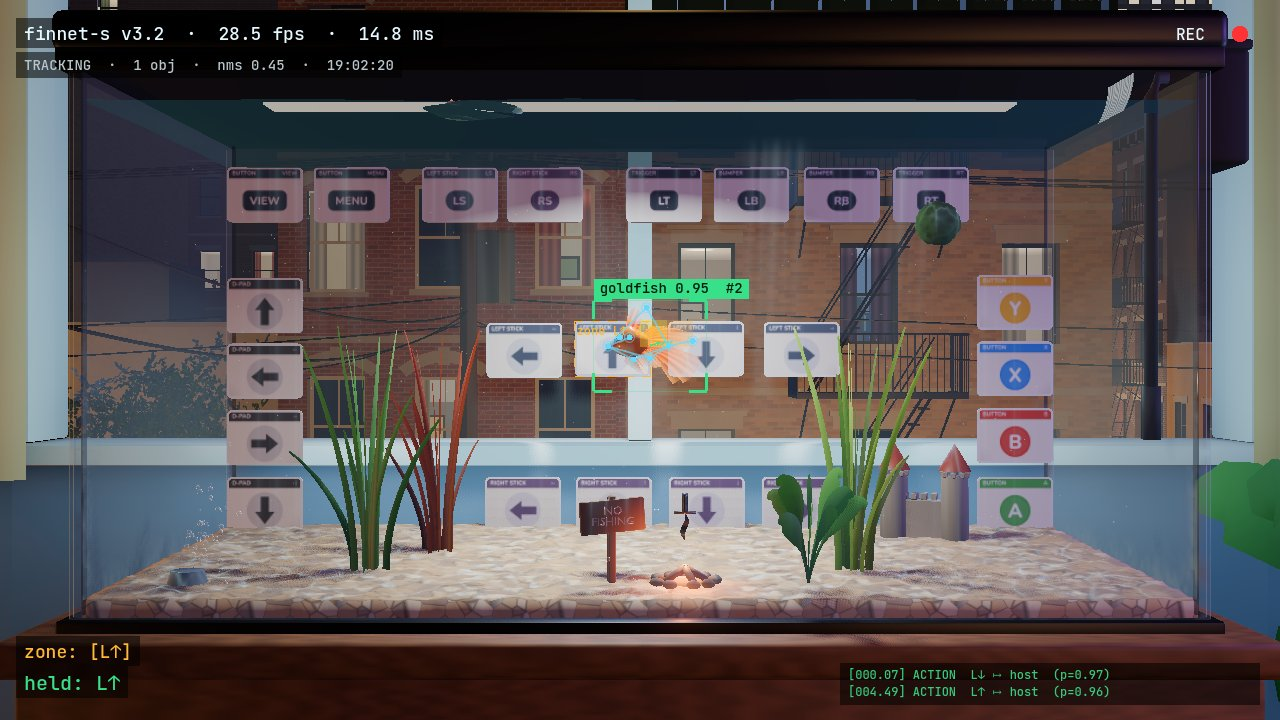
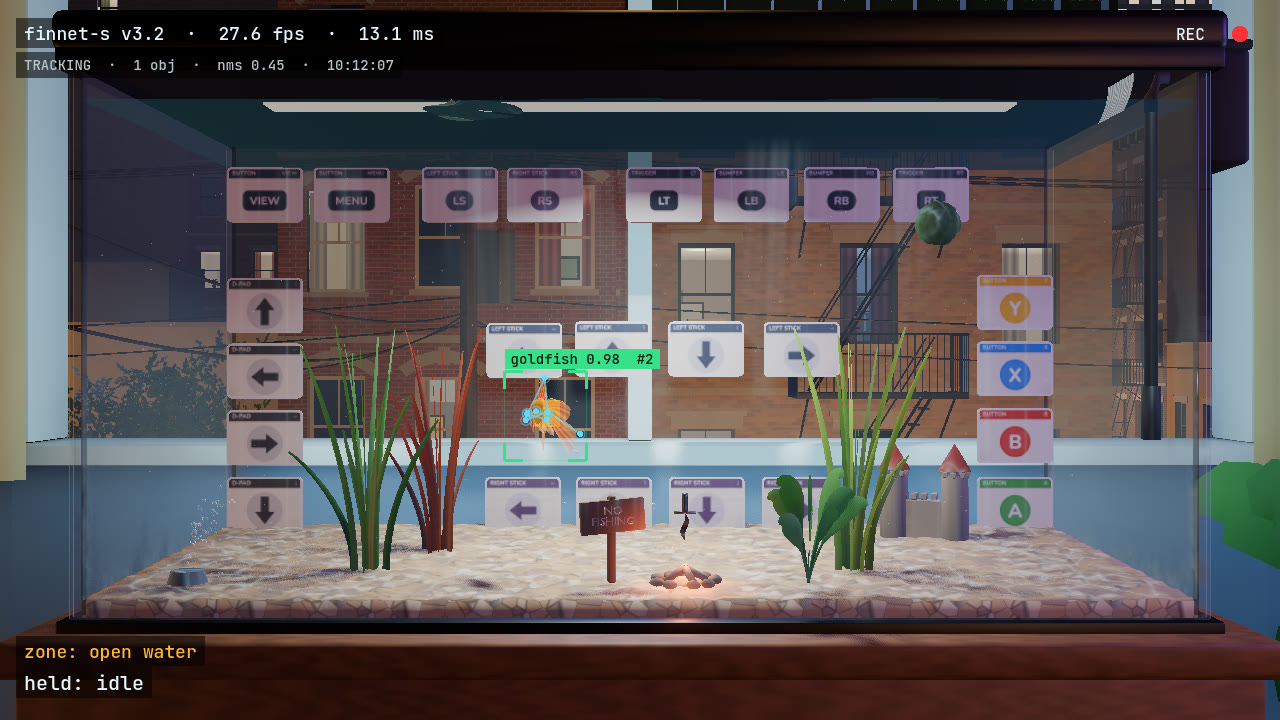
Milestone 5b: new screenshots, with Final Fantasy VII on the monitor
- --connect=HOST[;APP] streams from a paired host before the other
  options apply, resuming the game already running there (or starting
  APP), and waits for the first frame; closing leaves the game running.
  MonitorMenu.play_on drives the menu's usual connect, apps and launch.
- The README and landing page shots are retaken with the new fish and
  a game on the monitor: the bedroom from along the bed, so the chair no
  longer hides the screen; your view looking past the fish at the desk;
  the tank cam with the fish in open water, pressing nothing.

diff --git a/site/template.html b/site/template.html
@@ -16,18 +16,18 @@
       <p class="slogan">Fish can do anything.</p>
     </header>
 
-    <img class="wide" src="assets/bedroom.jpg" width="1280" height="720" alt="A bedroom at night. A fish tank full of controller flash cards sits under the window, with a lamplit street and brick rowhouses outside, and a desk with a gaming PC and monitor is across the room.">
+    <img class="wide" src="assets/bedroom.jpg" width="1280" height="720" alt="A bedroom at night. A fish tank full of controller flash cards sits under the window, with brick rowhouses outside, and at the desk on the right the monitor shows Final Fantasy VII streaming from the host.">
 
     <p>Linguini lets you play your PC games as a goldfish. Swimming in front of a flash card in your tank presses that button in the game, which plays on a monitor across the room. Any game your PC can stream over <a href="https://moonlight-stream.org/">Moonlight</a> works, from either <a href="https://github.com/LizardByte/Sunshine">Sunshine</a> or GeForce Experience, though you will need to install Linguini on a separate machine from your game host.</p>
     <p>Inspired by Tortellini, the fish who conquered Elden Ring.</p>
 
     <figure>
-      <img src="assets/your-view.jpg" width="1280" height="720" loading="lazy" alt="Behind the goldfish in the tank, with flash cards on the glass ahead and the street outside the window beyond.">
+      <img src="assets/your-view.jpg" width="1280" height="720" loading="lazy" alt="Behind the goldfish in the tank, looking out through the glass at the desk, where the monitor shows Final Fantasy VII.">
       <figcaption>Your view while you play.</figcaption>
     </figure>
 
     <figure>
-      <img src="assets/tank-cam.jpg" width="1280" height="720" loading="lazy" alt="The front of the tank with a tracking box labelled &quot;goldfish 0.96&quot; around the fish and readouts in the corners.">
+      <img src="assets/tank-cam.jpg" width="1280" height="720" loading="lazy" alt="The front of the tank with a tracking box labelled &quot;goldfish 0.98&quot; around the fish and readouts in the corners.">
       <figcaption>The tank cam opens as its own window, so you can add it to your stream in OBS.</figcaption>
     </figure>
 

diff --git a/README.md b/README.md
@@ -2,17 +2,17 @@
 
 Fish can do anything.
 
-![A bedroom at night. A fish tank full of controller flash cards sits under the window, with a lamplit street and brick rowhouses outside, and a desk with a gaming PC and monitor is across the room.](site/assets/bedroom.jpg)
+![A bedroom at night. A fish tank full of controller flash cards sits under the window, with brick rowhouses outside, and at the desk on the right the monitor shows Final Fantasy VII streaming from the host.](site/assets/bedroom.jpg)
 
 Linguini lets you play your PC games as a goldfish. Swimming in front of a flash card in your tank presses that button in the game, which plays on a monitor across the room. Any game your PC can stream over [Moonlight](https://moonlight-stream.org/) works, from either [Sunshine](https://github.com/LizardByte/Sunshine) or GeForce Experience, though you will need to install Linguini on a separate machine from your game host.
 
 Inspired by Tortellini, the fish who conquered Elden Ring.
 
-![Behind the goldfish in the tank, with flash cards on the glass ahead and the street outside the window beyond.](site/assets/your-view.jpg)
+![Behind the goldfish in the tank, looking out through the glass at the desk, where the monitor shows Final Fantasy VII.](site/assets/your-view.jpg)
 
 *Your view while you play.*
 
-![The front of the tank with a tracking box labelled "goldfish 0.96" around the fish and readouts in the corners.](site/assets/tank-cam.jpg)
+![The front of the tank with a tracking box labelled "goldfish 0.98" around the fish and readouts in the corners.](site/assets/tank-cam.jpg)
 
 *The tank cam opens as its own window, so you can add it to your stream in OBS.*
 

diff --git a/docs/guide.md b/docs/guide.md
@@ -334,7 +334,7 @@ Put the packaged builds in `dist/builds/`. Each file is matched to a platform by
 
 For example: `linguini-linux-x86_64.zip`, `linguini-windows-x86_64.zip`, `linguini-macos.zip`.
 
-The script copies the builds into the site and writes `SHA256SUMS`. The page lists each build with its size; platforms without a build are left off. The output is plain HTML and CSS, so any static host works. Its screenshots in `site/assets/` come from the tracker's snapshots (see [Progress tracker](#progress-tracker)).
+The script copies the builds into the site and writes `SHA256SUMS`. The page lists each build with its size; platforms without a build are left off. The output is plain HTML and CSS, so any static host works. Its screenshots in `site/assets/` (also used by the README) are taken with a game on the monitor: `-- --connect=HOST` resumes whatever's running on a paired host, or starts an app with `--connect=HOST;APP`, before the other options apply, and closing leaves the game running. Keep the fish out of the cards' zones in these, since they press buttons on the host.
 
 ## Art pipeline
 
